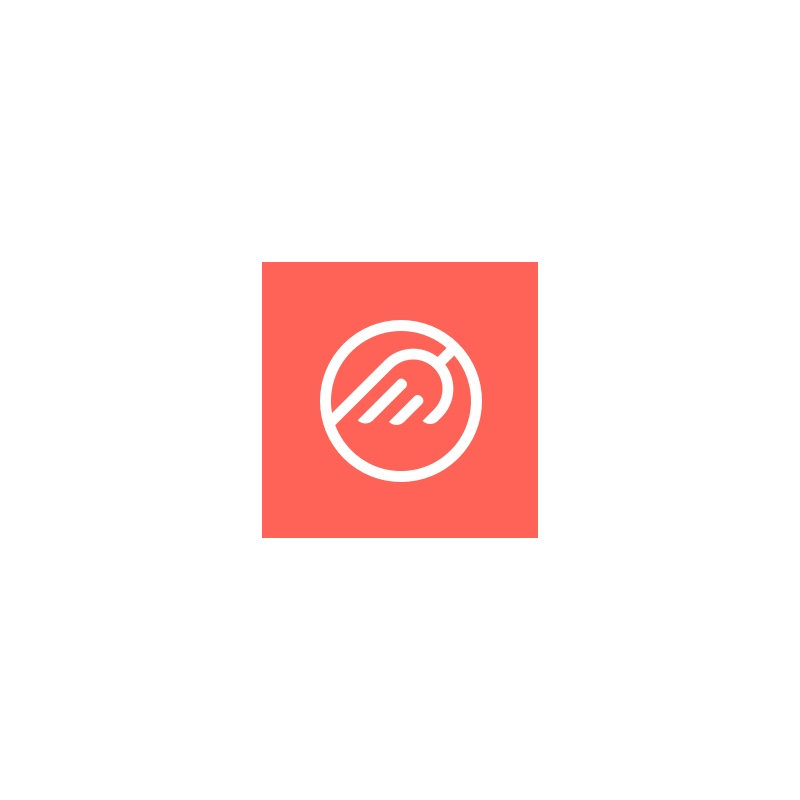
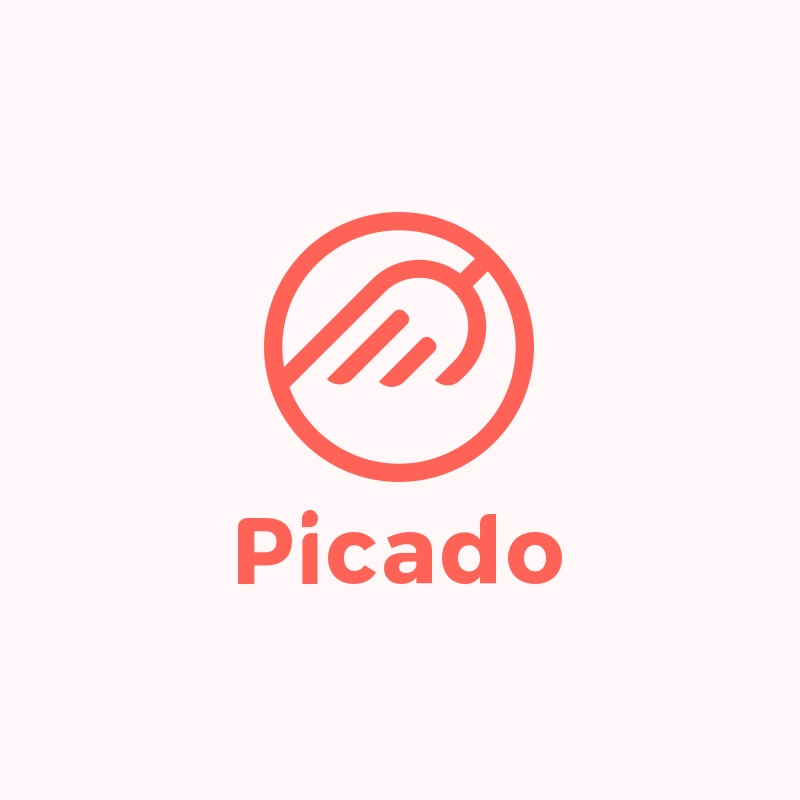
Add new svg

Changed region(s): [[0.2812, 0.25, 0.7188, 0.75]]

diff --git a/index.html b/index.html
@@ -420,7 +420,7 @@
               </div>
             </div>
             <div class="col-md-2 col-xl-4 d-none d-md-block wow fadeScale">
-              <img src="images/index-1-399x407.jpg" alt="" width="399" height="407" />
+              <img src="images/index-1-399x407.svg" alt="" width="399" height="407" />
             </div>
             <div class="col-md-5 col-xl-4">
               <div class="row row-30 row-md-40 row-lg-50 bordered-2">
@@ -853,7 +853,7 @@
             <div class="row row-30 justify-content-center">
               <div class="col-6 col-sm-3">
                 <div class="counter-modern">
-                  <h2 class="counter-modern-number"><span class="counter">24</span></h2>
+                  <h2 class="counter-modern-number"><span class="counter">10</span></h2>
                   <div class="counter-modern-decor"></div>
                   <h5 class="counter-modern-title">
                     New food products
@@ -864,23 +864,23 @@
               </div>
               <div class="col-6 col-sm-3">
                 <div class="counter-modern">
-                  <h2 class="counter-modern-number"><span class="counter">182</span></h2>
+                  <h2 class="counter-modern-number"><span class="counter">12</span></h2>
                   <div class="counter-modern-decor"></div>
                   <h5 class="counter-modern-title">
                     Special
                     <br class="d-none d-sm-block" />
-                    offers
+                    Offers
                   </h5>
                 </div>
               </div>
               <div class="col-6 col-sm-3">
                 <div class="counter-modern">
-                  <h2 class="counter-modern-number"><span class="counter">1267</span></h2>
+                  <h2 class="counter-modern-number"><span class="counter">500</span></h2>
                   <div class="counter-modern-decor"></div>
                   <h5 class="counter-modern-title">
-                    Satisfied
+                    Happy
                     <br class="d-none d-sm-block" />
-                    clients
+                    Picadonians
                   </h5>
                 </div>
               </div>
